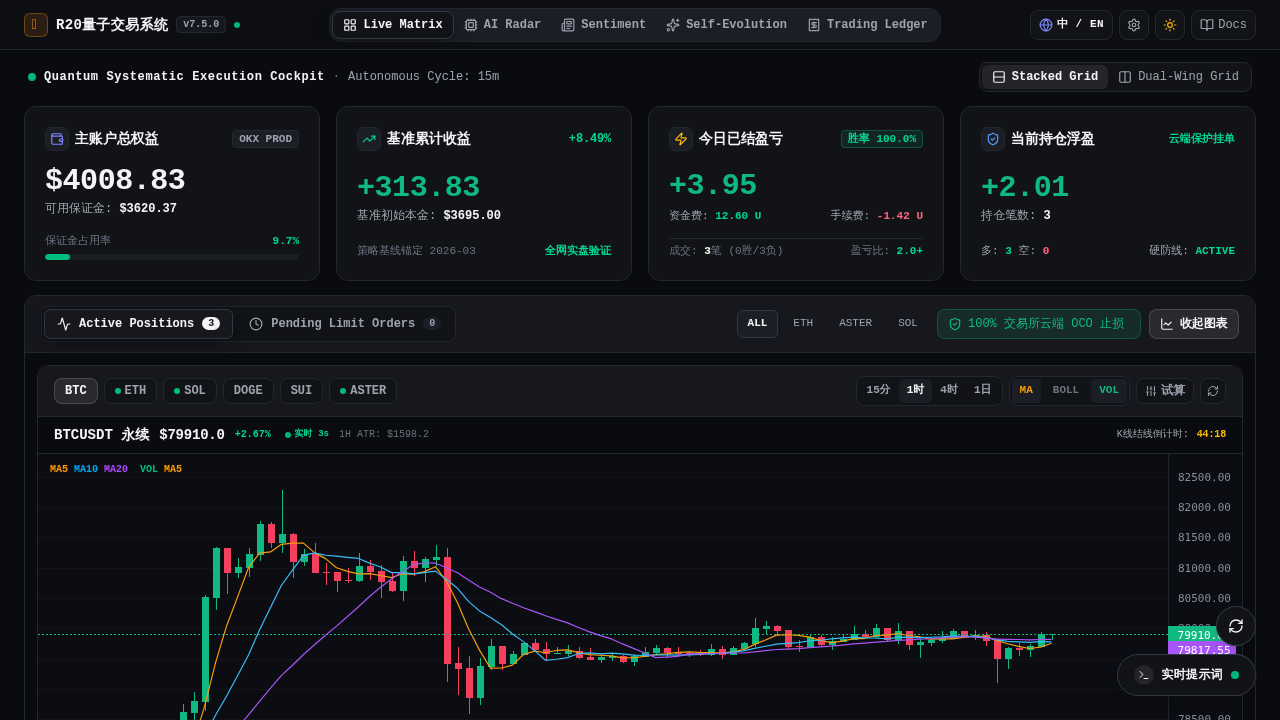
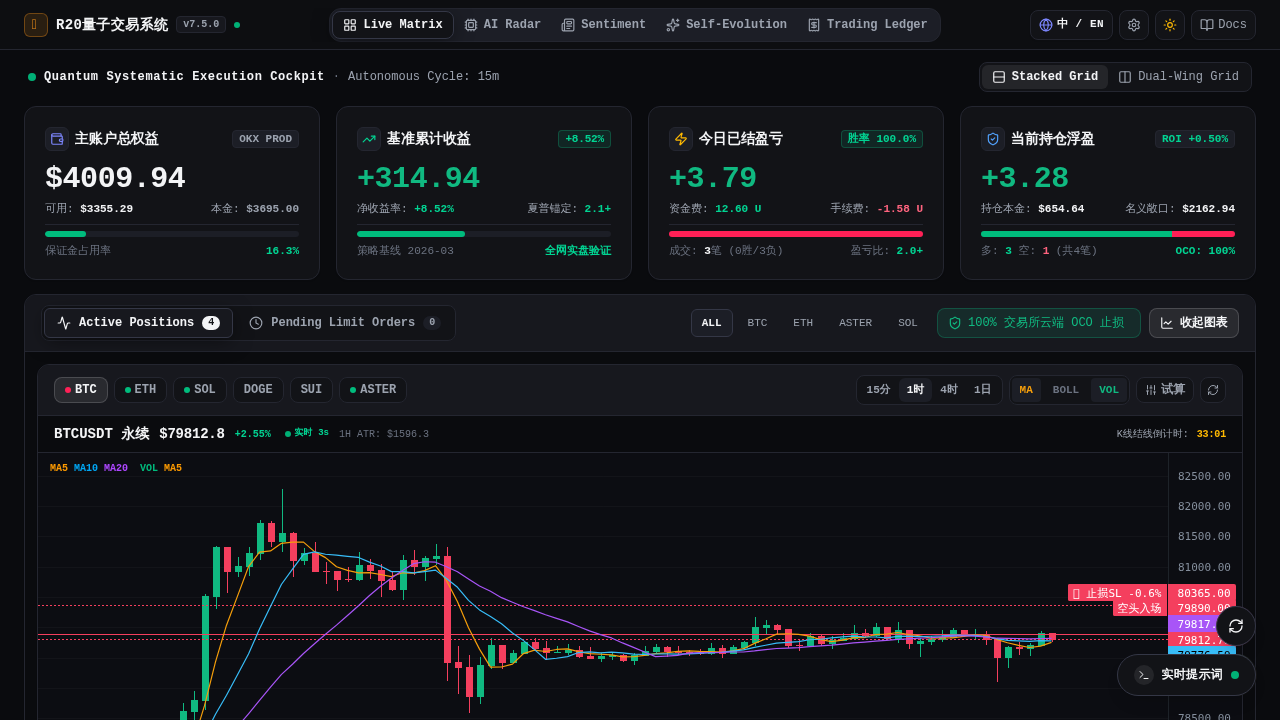
fix(hud): 四卡舱严格等大对齐与持仓卡片多空分布微结构饱满度升级

diff --git a/frontend/src/components/TopHudRibbon.vue b/frontend/src/components/TopHudRibbon.vue
@@ -9,42 +9,93 @@ const { t } = useI18n()
 const account = computed(() => store.data?.account || {})
 const today = computed(() => store.data?.today_stats || {})
 
+// 1. 主账户总权益
 const totalEq = computed(() => Number(account.value.total_eq || 0).toFixed(2))
 const availEq = computed(() => Number(account.value.avail_eq || 0).toFixed(2))
 const marginUsage = computed(() => Number(account.value.margin_usage_pct || 0).toFixed(1))
 
+// 2. 基准累计收益
 const benchmarkNetPnl = computed(() => Number(account.value.cum_net_pnl || 0).toFixed(2))
 const benchmarkRoi = computed(() => Number(account.value.cum_roi_pct || 0).toFixed(2))
 const initialCap = computed(() => Number(account.value.initial_capital || 3695.0).toFixed(2))
 
-// 今日已结盈亏与费用明细 (真实资金费与手续费展示)
+// 3. 今日已结盈亏与费用明细
 const todayNet = computed(() => Number(today.value.net_realized ?? today.value.total_pnl ?? 0).toFixed(2))
 const todayFunding = computed(() => Number(today.value.funding_paid || 0).toFixed(2))
 const todayFees = computed(() => Number(today.value.fees_paid || 0).toFixed(2))
-const todayGross = computed(() => Number(today.value.realized_gross || 0).toFixed(2))
-
 const todayWinrate = computed(() => Number(today.value.win_rate || 100.0).toFixed(1))
 const winTrades = computed(() => Number(today.value.win_trades ?? 0))
 const lossTrades = computed(() => Number(today.value.loss_trades ?? 0))
 const todayTrades = computed(() => winTrades.value + lossTrades.value)
+const winRatePct = computed(() => {
+  if (todayTrades.value === 0) return 100
+  return Math.round((winTrades.value / todayTrades.value) * 100)
+})
 
-// 当前持仓浮动盈亏与风控统计
+// 4. 当前持仓浮动盈亏与风控微结构
 const posUplNum = computed(() => Number(account.value.pos_upl_total ?? account.value.upl ?? 0))
 const posUplStr = computed(() => posUplNum.value.toFixed(2))
 
 const longCount = computed(() => store.positions.filter((p) => p.side === 'long').length)
 const shortCount = computed(() => store.positions.filter((p) => p.side === 'short').length)
+const totalPosCount = computed(() => store.positions.length)
+
+// 统计当前真实持仓保证金与名义敞口 (支持 margin_usdt, notional_usdt 与兼容字段)
+const totalPosMargin = computed(() => {
+  return store.positions.reduce((sum, p: any) => {
+    const val = Number(p.margin_usdt ?? p.margin ?? 0)
+    return sum + (isNaN(val) ? 0 : val)
+  }, 0)
+})
+const totalPosMarginStr = computed(() => totalPosMargin.value > 0 ? totalPosMargin.value.toFixed(2) : '0.00')
+
+const totalPosNotional = computed(() => {
+  return store.positions.reduce((sum, p: any) => {
+    const notional = Number(p.notional_usdt)
+    if (!isNaN(notional) && notional > 0) return sum + notional
+    const m = Number(p.margin_usdt ?? p.margin ?? 0)
+    const lev = Number(p.lever ?? 3)
+    return sum + ((isNaN(m) ? 0 : m) * (isNaN(lev) ? 3 : lev))
+  }, 0)
+})
+const totalPosNotionalStr = computed(() => totalPosNotional.value > 0 ? totalPosNotional.value.toFixed(2) : '0.00')
+
+// 持仓未实现浮盈率 ROI%
+const posRoiPct = computed(() => {
+  if (totalPosMargin.value <= 0) return '0.00'
+  return ((posUplNum.value / totalPosMargin.value) * 100).toFixed(2)
+})
+
+// 多空持仓比例 (用于分布条)
+const longRatioPct = computed(() => {
+  const total = longCount.value + shortCount.value
+  if (total === 0) return 0
+  return Math.round((longCount.value / total) * 100)
+})
+const shortRatioPct = computed(() => {
+  const total = longCount.value + shortCount.value
+  if (total === 0) return 0
+  return 100 - longRatioPct.value
+})
+
+// OCO 保护覆盖率
+const ocoProtectedRatio = computed(() => {
+  if (totalPosCount.value === 0) return '100%'
+  const protectedCount = store.positions.filter((p: any) => p.protectionStatus === 'fully_protected' || p.cloud_oco_verified !== false).length
+  return `${Math.round((protectedCount / totalPosCount.value) * 100)}%`
+})
 </script>
 
 <template>
-  <!-- 4 Compact Bento Cards: Mobile 2x2 Grid (两行，一行两个), Desktop 1x4 (饱满方正，拒绝扁长) -->
-  <div class="grid grid-cols-2 lg:grid-cols-4 gap-2.5 sm:gap-3 lg:gap-4">
+  <!-- 4 Compact Bento Cards: Mobile 2x2 Grid (两行，一行两个), Desktop 1x4 (严格等高、等大、Pixel-Perfect 镜面对称) -->
+  <div class="grid grid-cols-2 lg:grid-cols-4 gap-2.5 sm:gap-3 lg:gap-4 items-stretch">
     
     <!-- Card 1: 主账户总权益 -->
     <div
-      class="rounded-xl border p-3 sm:p-4 lg:p-5 2xl:p-6 flex flex-col justify-between transition-all shadow-xs lg:min-h-[165px] 2xl:min-h-[180px]"
+      class="h-full rounded-xl border p-3 sm:p-4 lg:p-5 flex flex-col justify-between transition-all shadow-xs"
       style="background-color: var(--bg-card); border-color: var(--border-subtle);"
     >
+      <!-- Row 1: Header -->
       <div class="flex items-center justify-between pb-1">
         <div class="flex items-center space-x-1.5 text-[11px] sm:text-xs lg:text-sm font-mono font-bold" style="color: var(--text-main);">
           <div class="w-5 h-5 lg:w-6 lg:h-6 rounded-md flex items-center justify-center border shrink-0" style="background-color: var(--bg-badge); border-color: var(--border-subtle);">
@@ -60,37 +111,40 @@ const shortCount = computed(() => store.positions.filter((p) => p.side === 'shor
         </span>
       </div>
 
-      <div class="py-1 lg:py-2">
+      <!-- Row 2: Value & Sub-info -->
+      <div class="py-1 lg:py-1.5">
         <div class="text-xl sm:text-2xl lg:text-3xl 2xl:text-4xl font-black font-mono tracking-tight num-tabular" style="color: var(--text-main);">
           ${{ totalEq }}
         </div>
-        <div class="text-[10px] sm:text-[11px] lg:text-xs font-mono truncate pt-0.5" style="color: var(--text-muted);">
-          可用保证金: <strong class="font-bold" style="color: var(--text-main);">${{ availEq }}</strong>
+        <div class="flex items-center justify-between text-[10px] sm:text-[11px] font-mono pt-1" style="color: var(--text-muted);">
+          <span>可用: <strong class="font-bold" style="color: var(--text-main);">${{ availEq }}</strong></span>
+          <span>本金: <strong class="font-bold" style="color: var(--text-muted);">${{ initialCap }}</strong></span>
         </div>
       </div>
 
-      <!-- Margin usage bar & ratio -->
-      <div class="pt-1 lg:pt-2 space-y-1">
-        <div class="hidden lg:flex items-center justify-between text-[11px] font-mono" style="color: var(--text-faint);">
-          <span>保证金占用率</span>
-          <span class="font-bold text-emerald-400">{{ marginUsage }}%</span>
-        </div>
+      <!-- Row 3: Progress Bar & Footer Status -->
+      <div class="pt-1.5 space-y-1.5 border-t" style="border-color: var(--border-subtle);">
         <div class="w-full h-1.5 rounded-full overflow-hidden" style="background-color: var(--bg-badge);">
           <div
             class="h-full rounded-full transition-all duration-500 bg-emerald-500"
             :style="{
-              width: `${Math.min(100, Math.max(8, Number(marginUsage)))}%`,
+              width: `${Math.min(100, Math.max(6, Number(marginUsage)))}%`,
             }"
           ></div>
+        </div>
+        <div class="flex items-center justify-between text-[10px] sm:text-[11px] font-mono" style="color: var(--text-faint);">
+          <span>保证金占用率</span>
+          <span class="font-bold text-emerald-400">{{ marginUsage }}%</span>
         </div>
       </div>
     </div>
 
     <!-- Card 2: 基准累计收益 -->
     <div
-      class="rounded-xl border p-3 sm:p-4 lg:p-5 2xl:p-6 flex flex-col justify-between transition-all shadow-xs lg:min-h-[165px] 2xl:min-h-[180px]"
+      class="h-full rounded-xl border p-3 sm:p-4 lg:p-5 flex flex-col justify-between transition-all shadow-xs"
       style="background-color: var(--bg-card); border-color: var(--border-subtle);"
     >
+      <!-- Row 1: Header -->
       <div class="flex items-center justify-between pb-1">
         <div class="flex items-center space-x-1.5 text-[11px] sm:text-xs lg:text-sm font-mono font-bold" style="color: var(--text-main);">
           <div class="w-5 h-5 lg:w-6 lg:h-6 rounded-md flex items-center justify-center border shrink-0" style="background-color: var(--bg-badge); border-color: var(--border-subtle);">
@@ -99,35 +153,50 @@ const shortCount = computed(() => store.positions.filter((p) => p.side === 'shor
           <span class="truncate">基准累计收益</span>
         </div>
         <span
-          class="text-[10px] sm:text-[11px] lg:text-xs font-mono font-bold text-emerald-400 num-tabular shrink-0"
+          class="text-[9px] sm:text-[10px] lg:text-[11px] font-mono px-1.5 py-0.2 rounded border font-bold text-emerald-400 num-tabular shrink-0"
+          style="background-color: var(--color-up-bg); border-color: var(--color-up-border);"
         >
           {{ Number(benchmarkRoi) >= 0 ? '+' : '' }}{{ benchmarkRoi }}%
         </span>
       </div>
 
-      <div class="py-1 lg:py-2">
+      <!-- Row 2: Value & Sub-info -->
+      <div class="py-1 lg:py-1.5">
         <div
           class="text-xl sm:text-2xl lg:text-3xl 2xl:text-4xl font-black font-mono tracking-tight num-tabular"
           :style="{ color: Number(benchmarkNetPnl) >= 0 ? 'var(--color-up)' : 'var(--color-down)' }"
         >
           {{ Number(benchmarkNetPnl) >= 0 ? '+' : '' }}{{ benchmarkNetPnl }}
         </div>
-        <div class="text-[10px] sm:text-[11px] lg:text-xs font-mono truncate pt-0.5" style="color: var(--text-muted);">
-          基准初始本金: <strong class="font-bold" style="color: var(--text-main);">${{ initialCap }}</strong>
+        <div class="flex items-center justify-between text-[10px] sm:text-[11px] font-mono pt-1" style="color: var(--text-muted);">
+          <span>净收益率: <strong class="text-emerald-400">+{{ benchmarkRoi }}%</strong></span>
+          <span>夏普锚定: <strong class="text-emerald-400">2.1+</strong></span>
         </div>
       </div>
 
-      <div class="flex items-center justify-between text-[10px] sm:text-[11px] font-mono pt-1" style="color: var(--text-faint);">
-        <span>策略基线锚定 2026-03</span>
-        <span class="hidden lg:inline text-emerald-400 font-bold">全网实盘验证</span>
+      <!-- Row 3: Progress Bar & Footer Status -->
+      <div class="pt-1.5 space-y-1.5 border-t" style="border-color: var(--border-subtle);">
+        <div class="w-full h-1.5 rounded-full overflow-hidden" style="background-color: var(--bg-badge);">
+          <div
+            class="h-full rounded-full transition-all duration-500 bg-emerald-500"
+            :style="{
+              width: `${Math.min(100, Math.max(12, Number(benchmarkRoi) * 5))}%`,
+            }"
+          ></div>
+        </div>
+        <div class="flex items-center justify-between text-[10px] sm:text-[11px] font-mono" style="color: var(--text-faint);">
+          <span>策略基线 2026-03</span>
+          <span class="text-emerald-400 font-bold">全网实盘验证</span>
+        </div>
       </div>
     </div>
 
     <!-- Card 3: 今日已结盈亏 (包含资金费与手续费明细) -->
     <div
-      class="rounded-xl border p-3 sm:p-4 lg:p-5 2xl:p-6 flex flex-col justify-between transition-all shadow-xs lg:min-h-[165px] 2xl:min-h-[180px]"
+      class="h-full rounded-xl border p-3 sm:p-4 lg:p-5 flex flex-col justify-between transition-all shadow-xs"
       style="background-color: var(--bg-card); border-color: var(--border-subtle);"
     >
+      <!-- Row 1: Header -->
       <div class="flex items-center justify-between pb-1">
         <div class="flex items-center space-x-1.5 text-[11px] sm:text-xs lg:text-sm font-mono font-bold" style="color: var(--text-main);">
           <div class="w-5 h-5 lg:w-6 lg:h-6 rounded-md flex items-center justify-center border shrink-0" style="background-color: var(--bg-badge); border-color: var(--border-subtle);">
@@ -143,6 +212,7 @@ const shortCount = computed(() => store.positions.filter((p) => p.side === 'shor
         </span>
       </div>
 
+      <!-- Row 2: Value & Sub-info -->
       <div class="py-1 lg:py-1.5">
         <div
           class="text-xl sm:text-2xl lg:text-3xl 2xl:text-4xl font-black font-mono tracking-tight num-tabular"
@@ -150,24 +220,39 @@ const shortCount = computed(() => store.positions.filter((p) => p.side === 'shor
         >
           {{ Number(todayNet) >= 0 ? '+' : '' }}{{ todayNet }}
         </div>
-        <!-- 核心新增：今日资金费与手续费明细透传展示 -->
+        <!-- 资金费与手续费明细透传 -->
         <div class="flex items-center justify-between text-[10px] sm:text-[11px] font-mono pt-1" style="color: var(--text-muted);">
           <span>资金费: <strong :class="Number(todayFunding) < 0 ? 'text-rose-400' : 'text-emerald-400'">{{ todayFunding }} U</strong></span>
           <span>手续费: <strong class="text-rose-400">{{ todayFees }} U</strong></span>
         </div>
       </div>
 
-      <div class="flex items-center justify-between text-[10px] sm:text-[11px] font-mono pt-1 border-t" style="border-color: var(--border-subtle); color: var(--text-faint);">
-        <span>成交: <strong style="color: var(--text-main);">{{ todayTrades }}</strong>笔 ({{ winTrades }}胜/{{ lossTrades }}负)</span>
-        <span>盈亏比: <strong class="text-emerald-400">2.0+</strong></span>
+      <!-- Row 3: Progress Bar & Footer Status -->
+      <div class="pt-1.5 space-y-1.5 border-t" style="border-color: var(--border-subtle);">
+        <div class="w-full h-1.5 rounded-full overflow-hidden flex" style="background-color: var(--bg-badge);">
+          <div
+            class="h-full bg-emerald-500 transition-all duration-500"
+            :style="{ width: `${winRatePct}%` }"
+          ></div>
+          <div
+            v-if="lossTrades > 0"
+            class="h-full bg-rose-500 transition-all duration-500"
+            :style="{ width: `${100 - winRatePct}%` }"
+          ></div>
+        </div>
+        <div class="flex items-center justify-between text-[10px] sm:text-[11px] font-mono" style="color: var(--text-faint);">
+          <span>成交: <strong style="color: var(--text-main);">{{ todayTrades }}</strong>笔 ({{ winTrades }}胜/{{ lossTrades }}负)</span>
+          <span>盈亏比: <strong class="text-emerald-400">2.0+</strong></span>
+        </div>
       </div>
     </div>
 
-    <!-- Card 4: 当前持仓浮盈 -->
+    <!-- Card 4: 当前持仓浮盈 (全量饱满微结构：保证金总额、名义总敞口、多空分布条与云端OCO) -->
     <div
-      class="rounded-xl border p-3 sm:p-4 lg:p-5 2xl:p-6 flex flex-col justify-between transition-all shadow-xs lg:min-h-[165px] 2xl:min-h-[180px]"
+      class="h-full rounded-xl border p-3 sm:p-4 lg:p-5 flex flex-col justify-between transition-all shadow-xs"
       style="background-color: var(--bg-card); border-color: var(--border-subtle);"
     >
+      <!-- Row 1: Header -->
       <div class="flex items-center justify-between pb-1">
         <div class="flex items-center space-x-1.5 text-[11px] sm:text-xs lg:text-sm font-mono font-bold" style="color: var(--text-main);">
           <div class="w-5 h-5 lg:w-6 lg:h-6 rounded-md flex items-center justify-center border shrink-0" style="background-color: var(--bg-badge); border-color: var(--border-subtle);">
@@ -176,27 +261,51 @@ const shortCount = computed(() => store.positions.filter((p) => p.side === 'shor
           <span class="truncate">当前持仓浮盈</span>
         </div>
         <span
-          class="text-[10px] sm:text-[11px] font-mono font-bold text-emerald-400 shrink-0"
+          class="text-[9px] sm:text-[10px] lg:text-[11px] font-mono px-1.5 py-0.2 rounded border font-bold shrink-0"
+          :class="posUplNum >= 0 ? 'text-emerald-400' : 'text-rose-400'"
+          style="background-color: var(--bg-badge); border-color: var(--border-subtle);"
         >
-          云端保护挂单
+          ROI {{ Number(posRoiPct) >= 0 ? '+' : '' }}{{ posRoiPct }}%
         </span>
       </div>
 
-      <div class="py-1 lg:py-2">
+      <!-- Row 2: Value & Sub-info -->
+      <div class="py-1 lg:py-1.5">
         <div
           class="text-xl sm:text-2xl lg:text-3xl 2xl:text-4xl font-black font-mono tracking-tight num-tabular"
           :style="{ color: posUplNum >= 0 ? 'var(--color-up)' : 'var(--color-down)' }"
         >
           {{ posUplNum >= 0 ? '+' : '' }}{{ posUplStr }}
         </div>
-        <div class="text-[10px] sm:text-[11px] lg:text-xs font-mono truncate pt-0.5" style="color: var(--text-muted);">
-          持仓笔数: <strong class="font-bold" style="color: var(--text-main);">{{ store.positions.length }}</strong>
+        <div class="flex items-center justify-between text-[10px] sm:text-[11px] font-mono pt-1" style="color: var(--text-muted);">
+          <span>持仓本金: <strong class="font-bold" style="color: var(--text-main);">${{ totalPosMarginStr }}</strong></span>
+          <span>名义敞口: <strong class="font-bold" style="color: var(--text-main);">${{ totalPosNotionalStr }}</strong></span>
         </div>
       </div>
 
-      <div class="flex items-center justify-between text-[10px] sm:text-[11px] font-mono pt-1" style="color: var(--text-muted);">
-        <span>多: <strong class="text-emerald-400">{{ longCount }}</strong> 空: <strong class="text-rose-400">{{ shortCount }}</strong></span>
-        <span>硬防线: <strong class="text-emerald-400">ACTIVE</strong></span>
+      <!-- Row 3: Progress Bar & Footer Status -->
+      <div class="pt-1.5 space-y-1.5 border-t" style="border-color: var(--border-subtle);">
+        <!-- 多空分布双色微条: 绿色代表多头, 红色代表空头, 无持仓展示中性灰 -->
+        <div class="w-full h-1.5 rounded-full overflow-hidden flex" style="background-color: var(--bg-badge);">
+          <div
+            v-if="longCount > 0"
+            class="h-full bg-emerald-500 transition-all duration-500"
+            :style="{ width: `${longRatioPct}%` }"
+          ></div>
+          <div
+            v-if="shortCount > 0"
+            class="h-full bg-rose-500 transition-all duration-500"
+            :style="{ width: `${shortRatioPct}%` }"
+          ></div>
+          <div
+            v-if="totalPosCount === 0"
+            class="h-full bg-slate-600/30 w-full"
+          ></div>
+        </div>
+        <div class="flex items-center justify-between text-[10px] sm:text-[11px] font-mono" style="color: var(--text-faint);">
+          <span>多: <strong class="text-emerald-400">{{ longCount }}</strong> 空: <strong class="text-rose-400">{{ shortCount }}</strong> (共{{ totalPosCount }}笔)</span>
+          <span class="text-emerald-400 font-bold">OCO: {{ ocoProtectedRatio }}</span>
+        </div>
       </div>
     </div>
 
